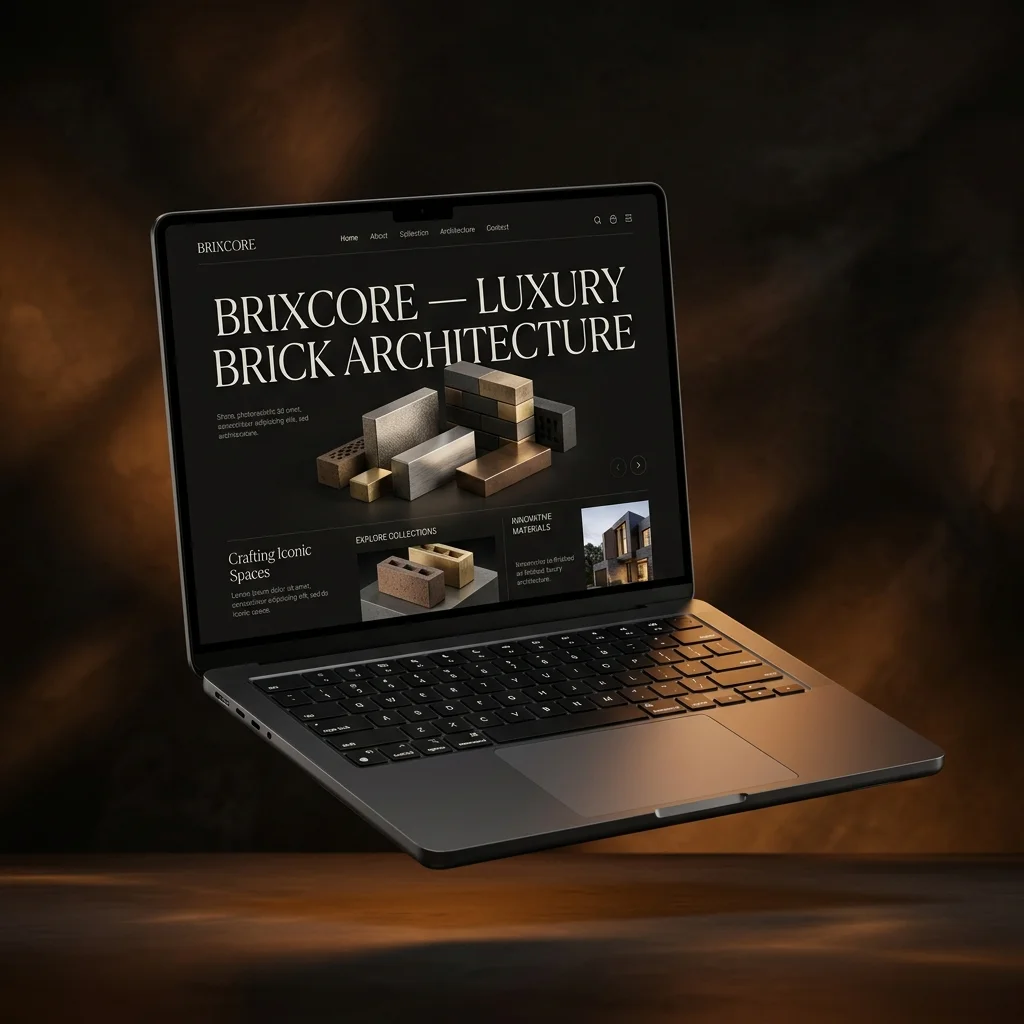
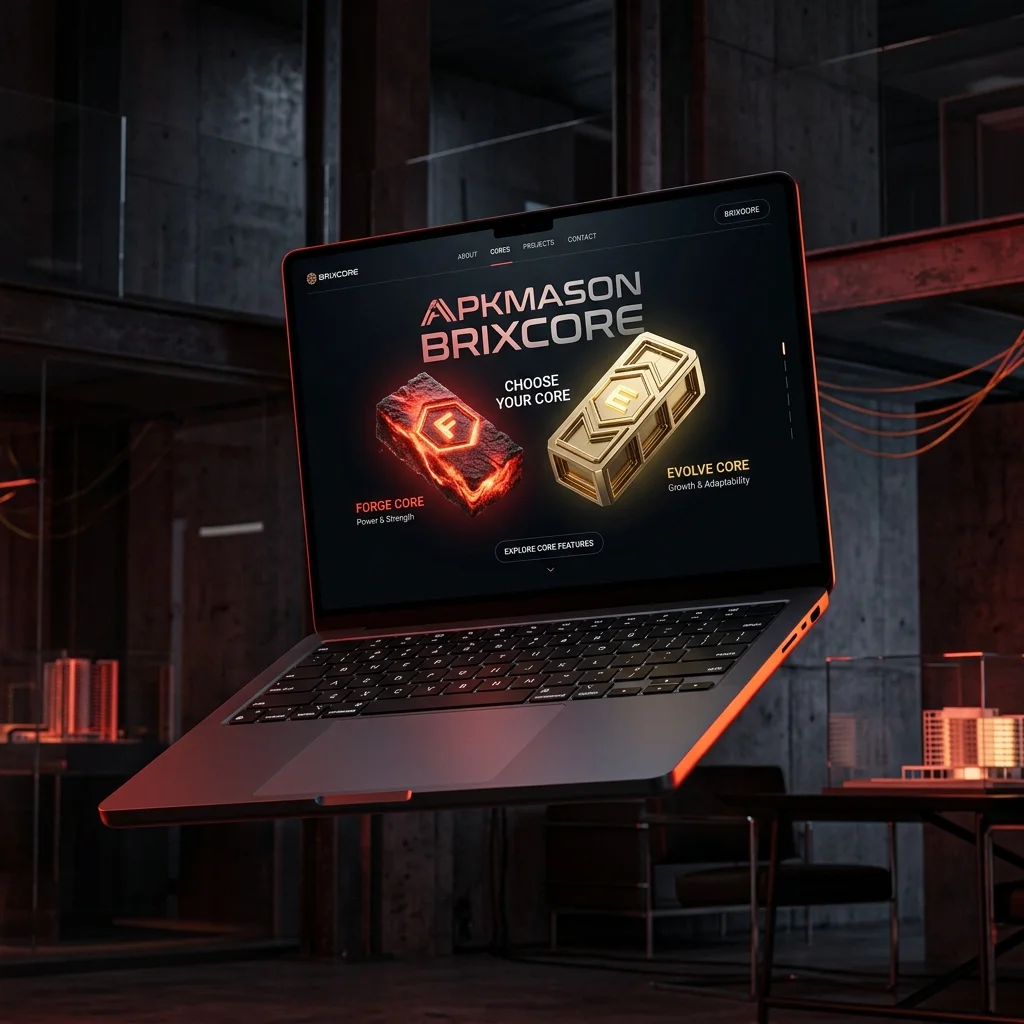
feat(projects): promote BRIXCORE to featured section with new 3D mockup, move FRUIT ENERGY to archive, and refine SPARK mockup

diff --git a/src/data/projects.ts b/src/data/projects.ts
@@ -20,18 +20,18 @@ export interface Project {
 
 export const projects: Project[] = [
   {
-    id: 'fruit-energy',
-    title: 'FRUIT ENERGY',
+    id: 'brixcore',
+    title: 'BRIXCORE',
     description: {
-      pl: 'Kinowy reveal fikcyjnego napoju energetycznego, łączący produktową narrację, motion direction i sterowanie scrollem.',
-      en: 'A cinematic reveal for a fictional energy drink, combining product storytelling, motion direction and scroll control.',
+      pl: 'Jednoekranowe, interaktywne kinowe doświadczenie wyboru — wybierz rdzeń FORGE lub EVOLVE i poznaj swoją ścieżkę.',
+      en: 'A one-screen, choice-driven cinematic experience — pick the FORGE or EVOLVE core to reveal your path.',
     },
-    image: '/fruit_mockup.webp',
-    link: 'https://apkmason.dev/fruit/',
-    tags: ['Scroll-driven', 'Product story', 'AI video'],
-    category: 'story',
+    image: '/brixcore_mockup.webp',
+    link: 'https://apkmasondev.github.io/brixcore/',
+    tags: ['Choice-driven', 'Interactive', 'Cinematic'],
+    category: 'experiment',
     featured: true,
-    accent: '#ff6a2f',
+    accent: '#ff845d',
   },
   {
     id: 'beyond-the-door',
@@ -326,17 +326,17 @@ export const projects: Project[] = [
     accent: '#e8bfb3',
   },
   {
-    id: 'brixcore',
-    title: 'BRIXCORE',
+    id: 'fruit-energy',
+    title: 'FRUIT ENERGY',
     description: {
-      pl: 'Eksperymentalny landing page dla wyimaginowanej marki luksusowych klocków.',
-      en: 'An experimental landing page for an imagined luxury brick brand.',
+      pl: 'Kinowy reveal fikcyjnego napoju energetycznego, łączący produktową narrację, motion direction i sterowanie scrollem.',
+      en: 'A cinematic reveal for a fictional energy drink, combining product storytelling, motion direction and scroll control.',
     },
-    image: '/brixcore_mockup.webp',
-    link: 'https://apkmasondev.github.io/brixcore/',
-    tags: ['Art direction', 'AI'],
+    image: '/fruit_mockup.webp',
+    link: 'https://apkmason.dev/fruit/',
+    tags: ['Scroll-driven', 'Product story', 'AI video'],
     category: 'experiment',
-    accent: '#ff845d',
+    accent: '#ff6a2f',
   },
   {
     id: 'suno',

diff --git a/CHANGELOG.md b/CHANGELOG.md
@@ -8,6 +8,8 @@ stosują [Semantic Versioning](https://semver.org/).
 
 ### Changed
 
+- zastąpiono grafikę 3D projektu „SPARK” nową, bezbłędną wersją bez artefaktów podwójnych krawędzi (spark_mockup.webp),
+- zaktualizowano projekt „BRIXCORE” (nowy opis kinowego doświadczenia wyboru rdzenia FORGE/EVOLVE oraz dedykowana grafika 3D), zamieniono go miejscami z projektem „FRUIT ENERGY” i zmieniono kategorię FRUIT ENERGY na experiment,
 - zastąpiono projekt „From Vertex to Reality” nowym luksusowym projektem scroll-driven „Pure Form” (URL: <https://apkmason.dev/Pure_form/>, kategoria: experiment) wraz z dedykowaną grafiką 3D,
 - zaktualizowano plik karty profilowej w portfolio (profile.jpg),
 - zastąpiono statyczny portret interaktywną, bezdźwięczną sekwencją wideo:
